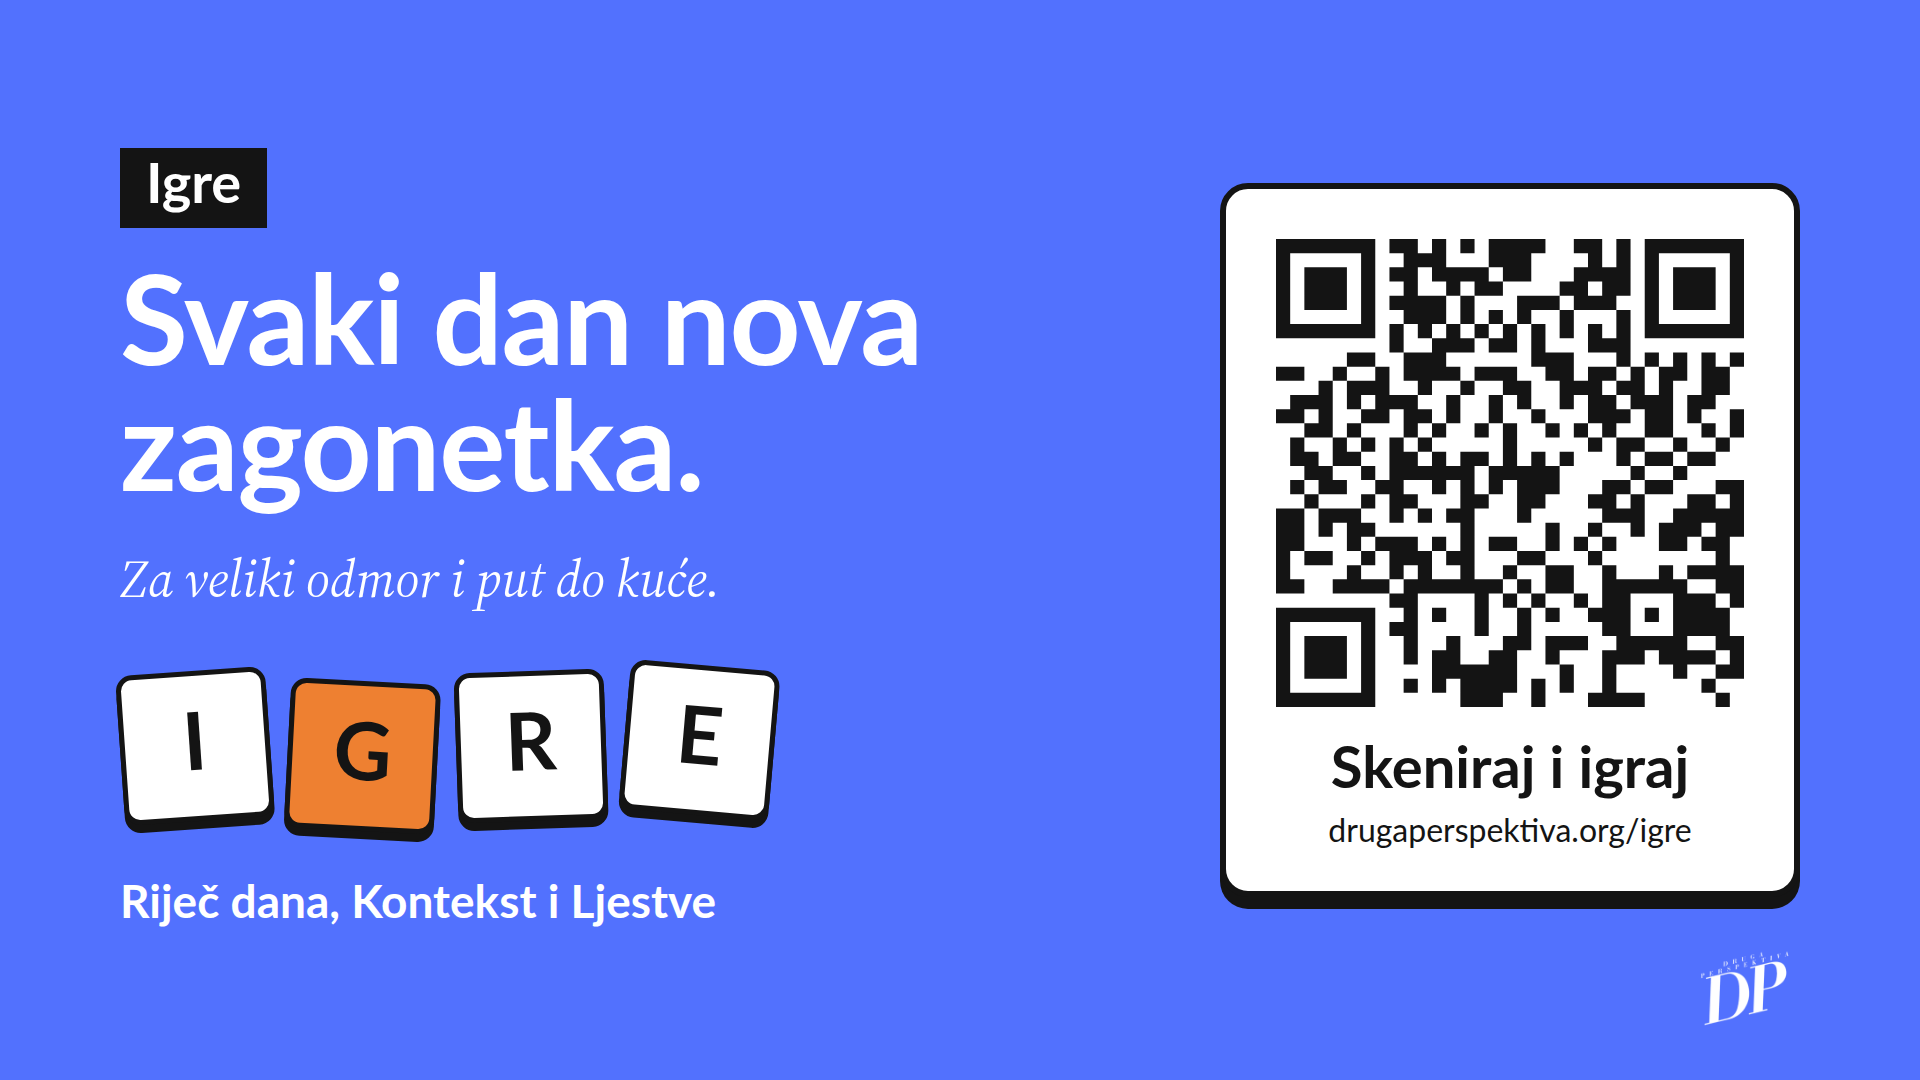
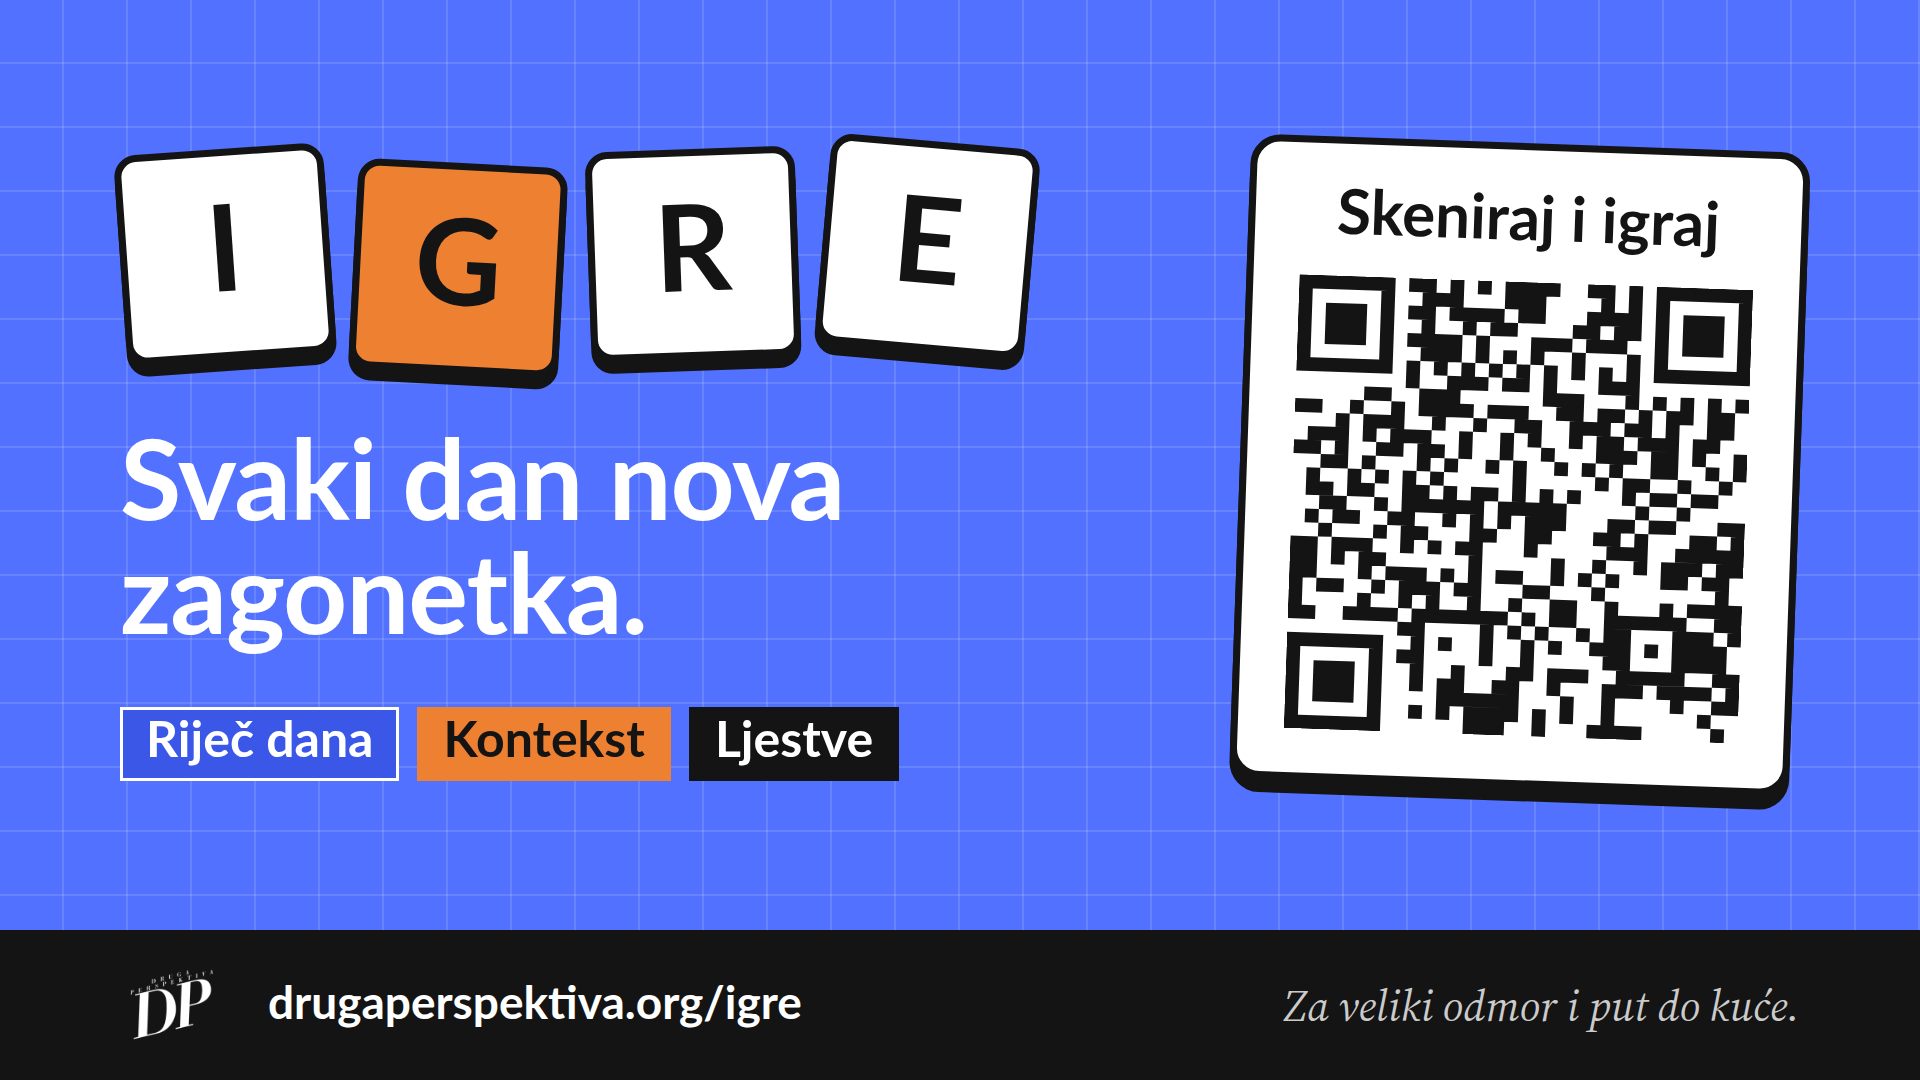
Promo: stronger display slide (big tiles, game chips, sticker QR, footer bar)
Claude-Session: https://claude.ai/code/session_01QPkDtEsER7FQnCPTtN3PAv

diff --git a/promo/igre-story/ekran.html b/promo/igre-story/ekran.html
@@ -10,6 +10,7 @@
 
 :root {
 	--plava: #5271fe;
+	--plava-chip: #3b57e8;
 	--narandza: #ee8031;
 	--tinta: #141414;
 }
@@ -18,107 +19,124 @@
 
 body { margin: 0; background: #888; font-family: "Lato", sans-serif; }
 
-/* 16:9, 1920 × 1080. Isti izgled kao Instagram story. */
+/* 16:9, 1920 × 1080. Isti izgled kao Instagram story; kvadratići kao u svesci (kao stranica Igre). */
 .slide {
 	position: relative;
-	display: grid;
-	grid-template-columns: 1fr 580px;
-	align-items: center;
-	gap: 100px;
 	width: 1920px;
 	height: 1080px;
-	padding: 0 120px;
 	overflow: hidden;
-	background: var(--plava);
+	background-color: var(--plava);
+	background-image:
+		linear-gradient(rgba(255, 255, 255, 0.13) 2px, transparent 2px),
+		linear-gradient(90deg, rgba(255, 255, 255, 0.13) 2px, transparent 2px);
+	background-size: 64px 64px;
+	background-position: -2px -2px;
 	color: #fff;
 }
 
-.chip {
-	display: inline-block;
-	padding: 10px 26px 14px;
-	background: var(--tinta);
-	color: #fff;
-	font-size: 56px;
-	font-weight: 700;
-	line-height: 1;
+.main {
+	display: grid;
+	grid-template-columns: 1fr 560px;
+	align-items: center;
+	gap: 90px;
+	height: 930px;
+	padding: 0 120px;
 }
+
+.tiles { display: flex; gap: 24px; }
+
+.tile {
+	display: grid;
+	place-items: center;
+	width: 210px;
+	height: 210px;
+	border: 7px solid var(--tinta);
+	border-radius: 22px;
+	background: #fff;
+	box-shadow: 0 12px 0 var(--tinta);
+	color: var(--tinta);
+	font-size: 120px;
+	font-weight: 700;
+}
+.tile:nth-child(1) { transform: rotate(-4deg); }
+.tile:nth-child(2) { transform: rotate(3deg) translateY(14px); background: var(--narandza); }
+.tile:nth-child(3) { transform: rotate(-2deg); }
+.tile:nth-child(4) { transform: rotate(5deg) translateY(-8px); }
 
 h1 {
-	margin: 36px 0 0;
-	font-size: 124px;
+	margin: 70px 0 0;
+	font-size: 112px;
 	font-weight: 700;
 	line-height: 1.02;
 	letter-spacing: -0.01em;
 }
 
-.dek {
-	margin: 30px 0 0;
-	font-family: "Source Serif 4", serif;
-	font-style: italic;
-	font-size: 52px;
-	line-height: 1.25;
-}
-
-.tiles { display: flex; gap: 18px; margin-top: 60px; }
-
-.tile {
-	display: grid;
-	place-items: center;
-	width: 150px;
-	height: 150px;
-	border: 5px solid var(--tinta);
-	border-radius: 16px;
-	background: #fff;
-	box-shadow: 0 8px 0 var(--tinta);
-	color: var(--tinta);
-	font-size: 80px;
+/* Tri igre kao Instagram kategorije. */
+.chips { display: flex; flex-wrap: wrap; gap: 18px; margin-top: 50px; }
+.chip {
+	padding: 10px 26px 14px;
+	font-size: 50px;
 	font-weight: 700;
+	line-height: 1;
 }
-.tile:nth-child(1) { transform: rotate(-4deg); }
-.tile:nth-child(2) { transform: rotate(3deg) translateY(10px); background: var(--narandza); }
-.tile:nth-child(3) { transform: rotate(-2deg); }
-.tile:nth-child(4) { transform: rotate(5deg) translateY(-6px); }
+.c-blue { background: var(--plava-chip); box-shadow: inset 0 0 0 3px #fff; }
+.c-orange { background: var(--narandza); color: var(--tinta); }
+.c-ink { background: var(--tinta); }
 
-.games { margin: 56px 0 0; font-size: 46px; font-weight: 700; }
-
-/* QR na bijeloj kartici, s crnim okvirom kao pločice u igrama. */
+/* QR kao naljepnica, malo nakrivljen. */
 .qr {
-	padding: 50px 50px 40px;
-	border: 6px solid var(--tinta);
-	border-radius: 28px;
+	padding: 40px 46px 44px;
+	border: 7px solid var(--tinta);
+	border-radius: 30px;
 	background: #fff;
-	box-shadow: 0 12px 0 var(--tinta);
+	box-shadow: 0 14px 0 var(--tinta);
 	color: var(--tinta);
 	text-align: center;
+	transform: rotate(2deg);
 }
+.qr b { display: block; margin-bottom: 30px; font-size: 62px; line-height: 1; }
 .qr img { display: block; width: 100%; height: auto; }
-.qr b { display: block; margin-top: 34px; font-size: 58px; line-height: 1; }
-.qr span { display: block; margin-top: 14px; font-size: 32px; }
 
-.logo {
+/* Crna traka dolje, kao podnožje sajta. */
+.bar {
 	position: absolute;
-	right: 120px;
-	bottom: 36px;
-	width: 110px;
-	filter: invert(1);
+	left: 0;
+	right: 0;
+	bottom: 0;
+	display: flex;
+	align-items: center;
+	justify-content: space-between;
+	height: 150px;
+	padding: 0 120px;
+	background: var(--tinta);
 }
+.bar p { margin: 0; font-size: 46px; }
+.bar p b { font-weight: 700; }
+.bar em { font-family: "Source Serif 4", serif; font-size: 44px; color: rgba(255, 255, 255, 0.8); }
+.bar img { height: 104px; filter: invert(1); }
+.bar .left { display: flex; align-items: center; gap: 44px; }
 </style>
 </head>
 <body>
 <section class="slide" id="ekran">
-	<div>
-		<span class="chip">Igre</span>
-		<h1>Svaki dan nova zagonetka.</h1>
-		<p class="dek">Za veliki odmor i put do kuće.</p>
-		<div class="tiles"><span class="tile">I</span><span class="tile">G</span><span class="tile">R</span><span class="tile">E</span></div>
-		<p class="games">Riječ dana, Kontekst i Ljestve</p>
+	<div class="main">
+		<div>
+			<div class="tiles"><span class="tile">I</span><span class="tile">G</span><span class="tile">R</span><span class="tile">E</span></div>
+			<h1>Svaki dan nova zagonetka.</h1>
+			<div class="chips"><span class="chip c-blue">Riječ dana</span><span class="chip c-orange">Kontekst</span><span class="chip c-ink">Ljestve</span></div>
+		</div>
+		<div class="qr">
+			<b>Skeniraj i igraj</b>
+			<img src="qr-igre.svg" alt="QR kod za drugaperspektiva.org/igre">
+		</div>
 	</div>
-	<div class="qr">
-		<img src="qr-igre.svg" alt="QR kod za drugaperspektiva.org/igre">
-		<b>Skeniraj i igraj</b>
-		<span>drugaperspektiva.org/igre</span>
+	<div class="bar">
+		<div class="left">
+			<img src="../../logo/Untitled_design_14-removebg-preview.png" alt="Druga perspektiva">
+			<p><b>drugaperspektiva.org/igre</b></p>
+		</div>
+		<em>Za veliki odmor i put do kuće.</em>
 	</div>
-	<img class="logo" src="../../logo/Untitled_design_14-removebg-preview.png" alt="">
 </section>
 </body>
 </html>
